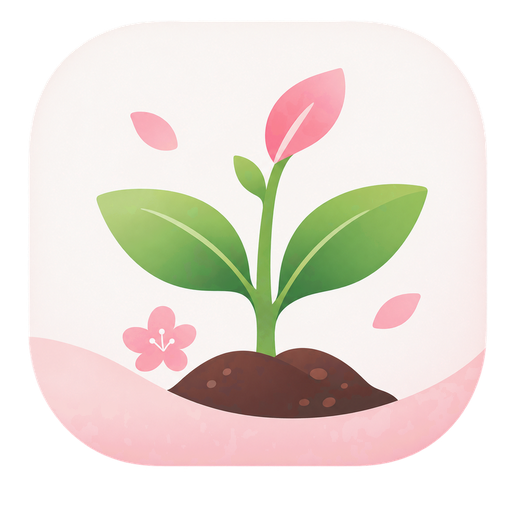
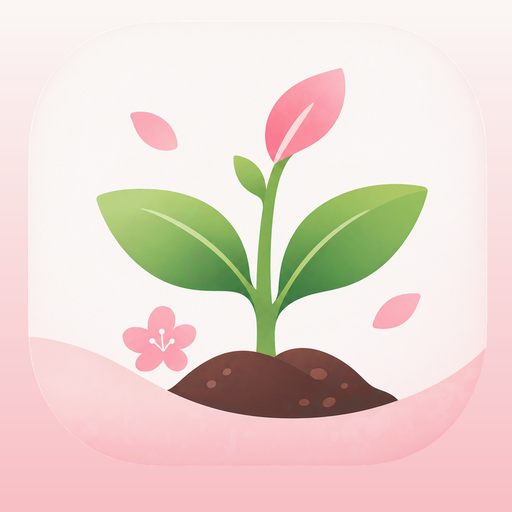
fix: iOS 主屏图标必须 100% 不透明（之前 92% 安全区导致角透出主屏底色）
之前的 fix 虽然把源图 icon.png 裁掉了外侧透明，但 apple-touch-icon-180x180
仍然按 92% safe_ratio 放在透明画布上 → 四角 8% 透明，iOS 主屏放上去后
透明区直接露出壁纸底色（白底 = 看到白边）。

根因还在源图：原 icon.png 的粉色背景是圆角矩形而非方块，bbox 内还有
透明角。新版 fill_canvas() 采样上下条带主色做垂直渐变，覆盖整个画布，
保证 0 透明。

- apple-touch-icon 改用 safe_ratio=1.0 贴满，让 iOS squircle 负责切圆角
- icon-512-maskable 仍留 85% 安全区（Android adaptive icon 需要透明外圈）

Changed region(s): [[0.0, 0.2812, 1.0, 1.0]]

diff --git a/static/_gen-icons.py b/static/_gen-icons.py
@@ -1,11 +1,12 @@
 #!/usr/bin/env python3
 """从 icon.png 生成 PWA 图标。
 
-约定：icon.png 应当是「已裁剪透明边距、内容填满画布」的源图。
-如果源图含透明边距，会先做一次裁剪 + 重新填充满画布的预处理，
-以避免 iOS 主屏图标因透明区域露出底色而出现「白边」。
+约定：icon.png 是源图。若源图有透明边距或带圆角的非透明背景，
+都会先做归一化（裁掉透明 bbox + 延伸背景色到画布四角），
+避免 iOS 主屏图标因透明区域露出底色而出现「白边」。
 """
 import os
+from collections import Counter
 from PIL import Image
 
 HERE = os.path.dirname(os.path.abspath(__file__))
@@ -14,19 +15,16 @@ SRC = os.path.join(ROOT, 'icon.png')
 
 
 def fit_to_canvas(img: Image.Image, target: int, safe_ratio: float = 1.0) -> Image.Image:
-    """把图等比缩放到 target 边长，再按 safe_ratio 留安全边距居中放置。
+    """等比缩放到 target 边长居中放置，留 safe_ratio 安全边距（1.0 = 贴满）。
 
-    safe_ratio=1.0 表示贴满；0.85 = 留 7.5% 安全边距（防 iOS 圆角裁切）。
+    透明画布用于不会出现在 iOS 主屏位置的图标（favicon / 192 / 512 / maskable），
+    主屏用的 apple-touch-icon 另走 fill_canvas()。
     """
     canvas = Image.new('RGBA', (target, target), (0, 0, 0, 0))
-    if safe_ratio >= 1.0:
-        resized = img.resize((target, target), Image.LANCZOS)
-        canvas.paste(resized, (0, 0))
-        return canvas
-
     inner = int(target * safe_ratio)
     scale = inner / max(img.size)
-    nw, nh = int(round(img.size[0] * scale)), int(round(img.size[1] * scale))
+    nw = int(round(img.size[0] * scale))
+    nh = int(round(img.size[1] * scale))
     resized = img.resize((nw, nh), Image.LANCZOS)
     ox = (target - nw) // 2
     oy = (target - nh) // 2
@@ -34,27 +32,46 @@ def fit_to_canvas(img: Image.Image, target: int, safe_ratio: float = 1.0) -> Ima
     return canvas
 
 
-def normalize_source(src_path: str, target: int = 1024) -> Image.Image:
-    """加载源图，裁掉透明边距，等比缩放到正方形画布（贴满）。"""
-    img = Image.open(src_path).convert('RGBA')
+def fill_canvas(img: Image.Image, target: int = 1024) -> Image.Image:
+    """把图填满正方形画布：先裁透明 bbox，再延伸背景色覆盖所有透明像素。
+
+    适用于 iOS 主屏图标（apple-touch-icon）：必须 100% 不透明，
+    否则透明区域会露出主屏壁纸底色，看起来就是「白边」。
+    """
     bbox = img.getbbox()
-    if bbox:
-        cropped = img.crop(bbox)
-    else:
-        cropped = img
-    return fit_to_canvas(cropped, target, safe_ratio=1.0)
+    cropped = img.crop(bbox) if bbox else img
+    cw, ch = cropped.size
+
+    sample_h = max(2, ch // 16)
+    top_strip = cropped.crop((0, 0, cw, sample_h))
+    bottom_strip = cropped.crop((0, ch - sample_h, cw, ch))
+    top_color = Counter(p for p in top_strip.getdata() if p[3] > 200).most_common(1)[0][0]
+    bottom_color = Counter(p for p in bottom_strip.getdata() if p[3] > 200).most_common(1)[0][0]
+
+    scaled = cropped.resize((target, target), Image.LANCZOS)
+
+    bg = Image.new('RGBA', (target, target))
+    for y in range(target):
+        t = y / (target - 1)
+        r = int(top_color[0] * (1 - t) + bottom_color[0] * t)
+        g = int(top_color[1] * (1 - t) + bottom_color[1] * t)
+        b = int(top_color[2] * (1 - t) + bottom_color[2] * t)
+        for x in range(target):
+            bg.putpixel((x, y), (r, g, b, 255))
+
+    return Image.alpha_composite(bg, scaled)
 
 
 def main() -> None:
-    base = normalize_source(SRC)
-    print(f'  base normalized: {base.size}')
+    base = fill_canvas(Image.open(SRC).convert('RGBA'))
+    print(f'  base filled: {base.size}')
 
-    base.resize((192, 192), Image.LANCZOS).save(
+    fit_to_canvas(base, 192).save(
         os.path.join(HERE, 'icon-192.png'), 'PNG', optimize=True
     )
     print('  -> icon-192.png (192x192)')
 
-    base.resize((512, 512), Image.LANCZOS).save(
+    fit_to_canvas(base, 512).save(
         os.path.join(HERE, 'icon-512.png'), 'PNG', optimize=True
     )
     print('  -> icon-512.png (512x512)')
@@ -62,17 +79,17 @@ def main() -> None:
     fit_to_canvas(base, 512, safe_ratio=0.85).save(
         os.path.join(HERE, 'icon-512-maskable.png'), 'PNG', optimize=True
     )
-    print('  -> icon-512-maskable.png (512x512, 85% safe zone)')
+    print('  -> icon-512-maskable.png (512x512, 85% safe zone, transparent corners OK)')
 
-    base.resize((64, 64), Image.LANCZOS).save(
+    fit_to_canvas(base, 64).save(
         os.path.join(HERE, 'favicon.png'), 'PNG', optimize=True
     )
     print('  -> favicon.png (64x64)')
 
-    fit_to_canvas(base, 180, safe_ratio=0.92).save(
+    fit_to_canvas(base, 180).save(
         os.path.join(HERE, 'apple-touch-icon-180x180.png'), 'PNG', optimize=True
     )
-    print('  -> apple-touch-icon-180x180.png (180x180, 92% safe zone)')
+    print('  -> apple-touch-icon-180x180.png (180x180, full bleed — iOS crops corners)')
 
 
 if __name__ == '__main__':

diff --git a/HANDOFF.md b/HANDOFF.md
@@ -418,7 +418,8 @@ deletePhotoFiles(id)  // 三档全删，ENOENT 忽略
 | **`?v=thumb/medium/orig` 三档** | 列表用 thumb 省带宽；详情用 medium；lightbox 用 orig |
 | **dev proxy `/api → localhost:3011`** | 同源避免 CORS；nginx 反代同样路径 |
 | **iOS 主屏幕图标走 `apple-touch-icon-180x180`** | iOS 不读 manifest 的 `icons`；必须 `<link rel="apple-touch-icon">` + 180×180 最佳 |
-| **图标源图不能含透明边距** | iOS 不给图标加白边/光泽（iOS 7+ 早已去掉），主屏上看到的「白边」其实是源图透明区域露出壁纸底色。`_gen-icons.py` 的 `normalize_source()` 会先裁掉 bbox 再贴满画布，避免再踩这个坑 |
+| **图标源图不能含透明边距** | iOS 不给图标加白边/光泽（iOS 7+ 早已去掉），主屏上看到的「白边」其实是源图透明区域露出壁纸底色。`_gen-icons.py` 的 `fill_canvas()` 会先裁掉 bbox，再延伸上下背景色为垂直渐变覆盖全画布，保证 0 透明 |
+| **apple-touch-icon 必须 100% 不透明** | iOS 把图标放进主屏格子里就裁，超出格子的透明区域会露出主屏底色。`apple-touch-icon-180x180` 用 `fit_to_canvas(..., 1.0)` 贴满（不带安全区），让 squircle 自己负责切圆角 |
 | **`<link rel="apple-touch-icon-precomposed">` 也声明一份** | 旧 iOS 兼容性兜底；现代 iOS 与 `apple-touch-icon` 行为一致，但声明了无副作用 |
 | **iOS PWA 换图标要删了重加** | iOS 把已添加的图标缓存到本地，服务端更新不生效 |
 
@@ -485,7 +486,8 @@ cp -r ./data ./data.bak.$(date +%Y%m%d)
 
 | Commit | 说明 |
 |---|---|
-| (本次) | iOS 主屏图标裁掉透明边距避免白边 + apple-touch-icon-precomposed |
+| (本次) | 二次修：apple-touch-icon 必须 100% 不透明（之前 92% 安全区导致透明角露出主屏底色）|
+| `1e08720` | iOS 主屏图标裁掉透明边距避免白边 + apple-touch-icon-precomposed |
 | `91ad403` | 替换项目图标为 icon.png（粉樱多肉）|
 | `d557640` | 添加 apple-touch-icon-180x180，iOS 主屏幕图标 |
 | `91ad403` | 替换项目图标为 duorou.png |
